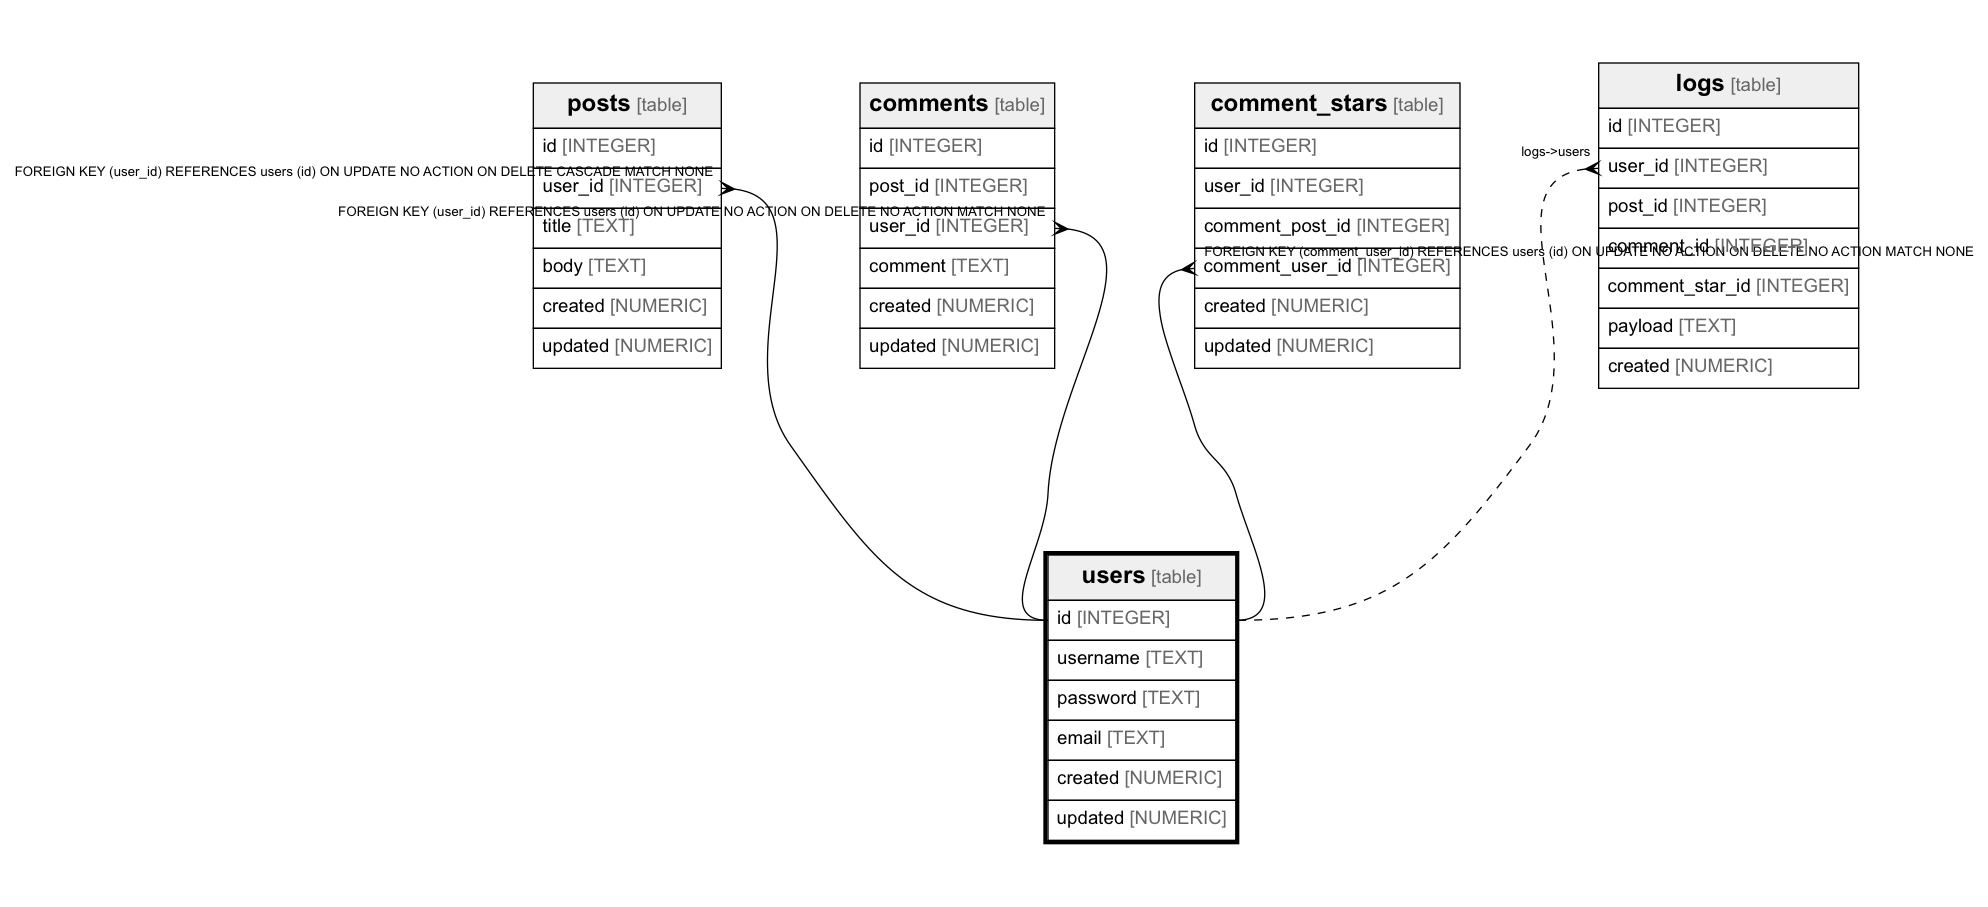
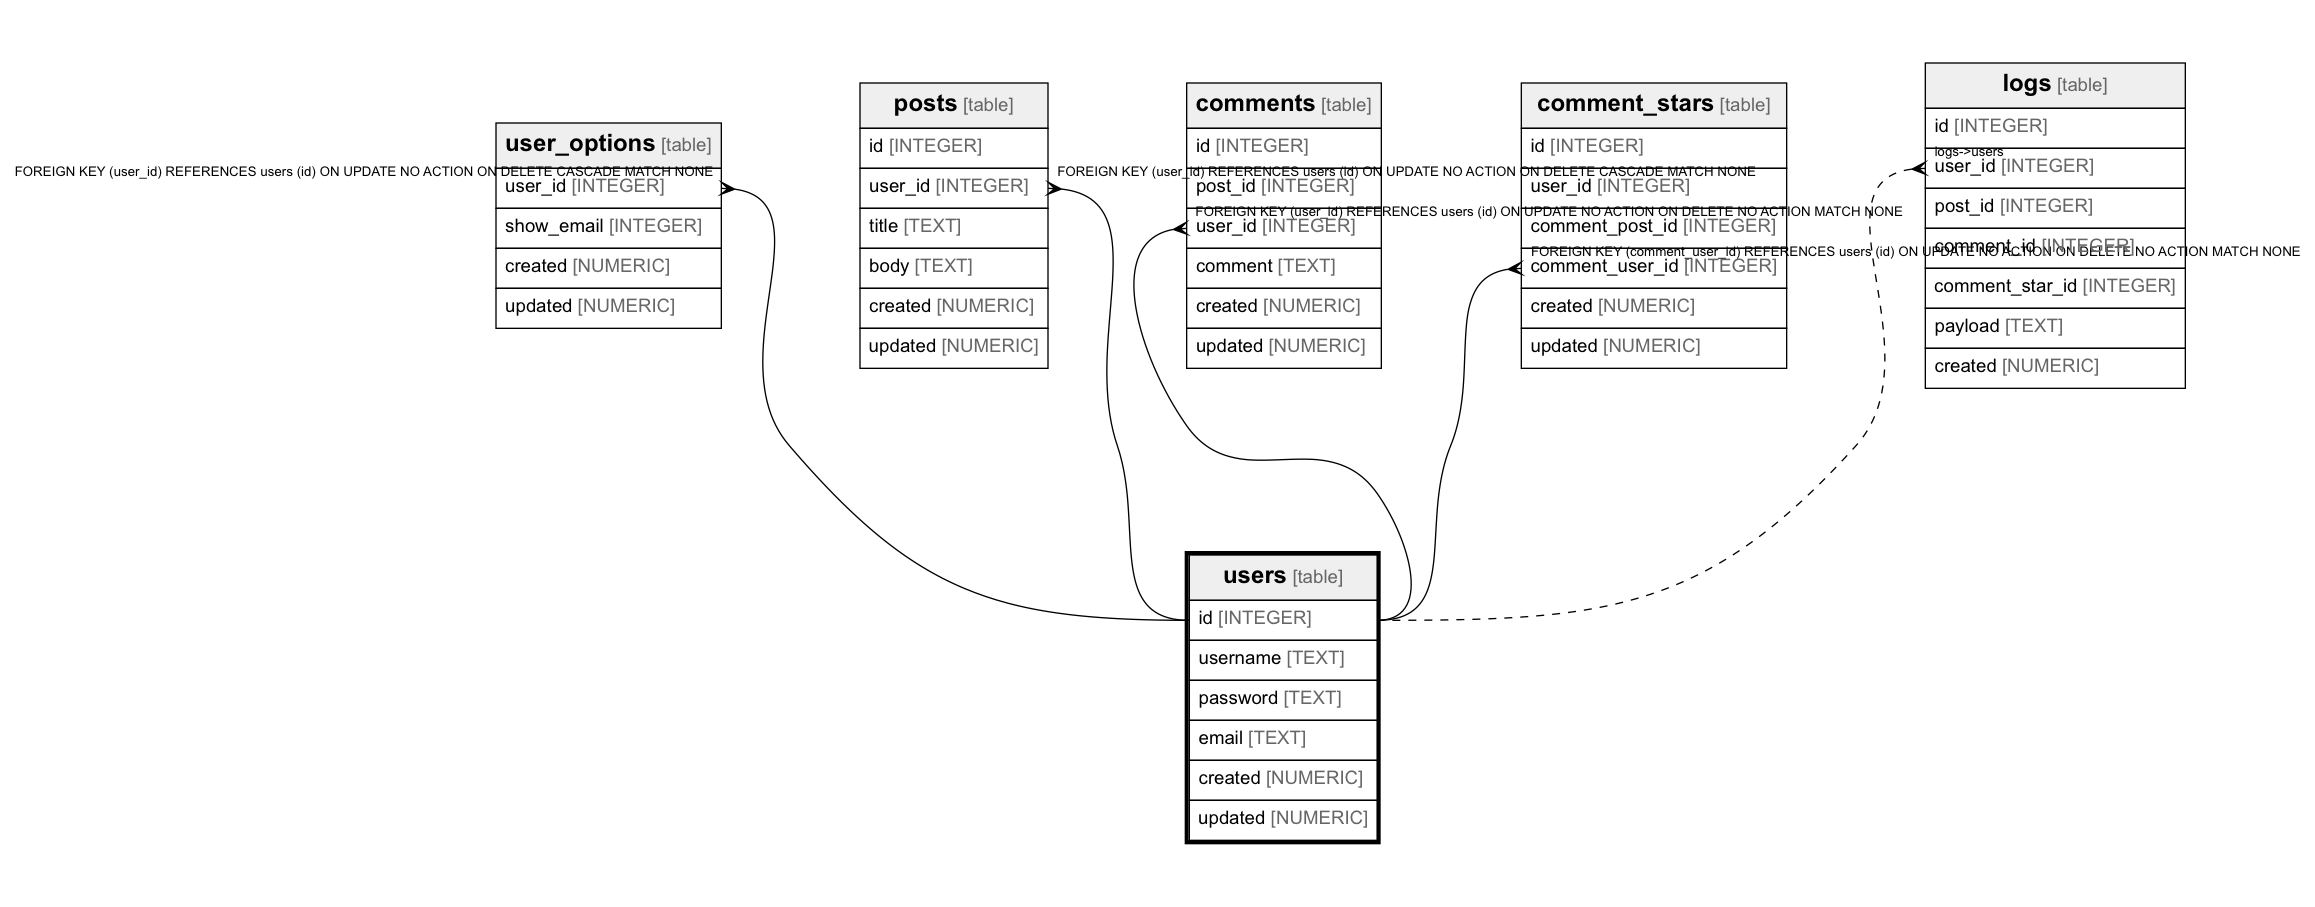
Add user_options that have PRIMARY KEY and FOREIGN KEY

Changed region(s): [[0.0, 0.0617, 0.998, 0.4322], [0.4678, 0.5865, 0.6237, 0.957]]

diff --git a/datasource/datasource_test.go b/datasource/datasource_test.go
@@ -12,8 +12,8 @@ var tests = []struct {
 	tableCount    int
 	relationCount int
 }{
-	{"my://root:mypass@localhost:33306/testdb", 7, 5},
-	{"pg://postgres:pgpass@localhost:55432/testdb?sslmode=disable", 8, 6},
+	{"my://root:mypass@localhost:33306/testdb", 8, 5},
+	{"pg://postgres:pgpass@localhost:55432/testdb?sslmode=disable", 9, 7},
 	{"json://../testdata/testdb.json", 7, 9},
 }
 

diff --git a/sample/adjust/users.md b/sample/adjust/users.md
@@ -6,14 +6,14 @@ Users table
 
 ## Columns
 
-| Name     | Type                        | Default                           | Nullable | Children                                                                                                                                  | Parents | Comment              |
-| -------- | --------------------------- | --------------------------------- | -------- | ----------------------------------------------------------------------------------------------------------------------------------------- | ------- | -------------------- |
-| id       | integer                     | nextval('users_id_seq'::regclass) | false    | [posts](posts.md) [comments](comments.md) [comment_stars](comment_stars.md) [administrator.blogs](administrator.blogs.md) [logs](logs.md) |         |                      |
-| username | varchar(50)                 |                                   | false    |                                                                                                                                           |         |                      |
-| password | varchar(50)                 |                                   | false    |                                                                                                                                           |         |                      |
-| email    | varchar(355)                |                                   | false    |                                                                                                                                           |         | ex. user@example.com |
-| created  | timestamp without time zone |                                   | false    |                                                                                                                                           |         |                      |
-| updated  | timestamp without time zone |                                   | true     |                                                                                                                                           |         |                      |
+| Name     | Type                        | Default                           | Nullable | Children                                                                                                                                                                  | Parents | Comment              |
+| -------- | --------------------------- | --------------------------------- | -------- | ------------------------------------------------------------------------------------------------------------------------------------------------------------------------- | ------- | -------------------- |
+| id       | integer                     | nextval('users_id_seq'::regclass) | false    | [user_options](user_options.md) [posts](posts.md) [comments](comments.md) [comment_stars](comment_stars.md) [administrator.blogs](administrator.blogs.md) [logs](logs.md) |         |                      |
+| username | varchar(50)                 |                                   | false    |                                                                                                                                                                           |         |                      |
+| password | varchar(50)                 |                                   | false    |                                                                                                                                                                           |         |                      |
+| email    | varchar(355)                |                                   | false    |                                                                                                                                                                           |         | ex. user@example.com |
+| created  | timestamp without time zone |                                   | false    |                                                                                                                                                                           |         |                      |
+| updated  | timestamp without time zone |                                   | true     |                                                                                                                                                                           |         |                      |
 
 ## Constraints
 

diff --git a/sample/adjust/user_options.md b/sample/adjust/user_options.md
@@ -1,0 +1,35 @@
+# user_options
+
+## Description
+
+User options table
+
+## Columns
+
+| Name       | Type                        | Default | Nullable | Children | Parents           | Comment |
+| ---------- | --------------------------- | ------- | -------- | -------- | ----------------- | ------- |
+| user_id    | integer                     |         | false    |          | [users](users.md) |         |
+| show_email | boolean                     | false   | false    |          |                   |         |
+| created    | timestamp without time zone |         | false    |          |                   |         |
+| updated    | timestamp without time zone |         | true     |          |                   |         |
+
+## Constraints
+
+| Name                    | Type        | Definition                                                   |
+| ----------------------- | ----------- | ------------------------------------------------------------ |
+| user_options_user_id_fk | FOREIGN KEY | FOREIGN KEY (user_id) REFERENCES users(id) ON DELETE CASCADE |
+| user_options_pkey       | PRIMARY KEY | PRIMARY KEY (user_id)                                        |
+
+## Indexes
+
+| Name              | Definition                                                                         |
+| ----------------- | ---------------------------------------------------------------------------------- |
+| user_options_pkey | CREATE UNIQUE INDEX user_options_pkey ON public.user_options USING btree (user_id) |
+
+## Relations
+
+![er](user_options.png)
+
+---
+
+> Generated by [tbls](https://github.com/k1LoW/tbls)

diff --git a/sample/mysql/user_options.md b/sample/mysql/user_options.md
@@ -1,0 +1,51 @@
+# user_options
+
+## Description
+
+User options table
+
+<details>
+<summary><strong>Table Definition</strong></summary>
+
+```sql
+CREATE TABLE `user_options` (
+  `user_id` int(11) NOT NULL,
+  `show_email` tinyint(1) NOT NULL DEFAULT '0',
+  `created` timestamp NOT NULL DEFAULT CURRENT_TIMESTAMP ON UPDATE CURRENT_TIMESTAMP,
+  `updated` timestamp NOT NULL DEFAULT '0000-00-00 00:00:00',
+  PRIMARY KEY (`user_id`),
+  CONSTRAINT `user_options_user_id_fk` FOREIGN KEY (`user_id`) REFERENCES `users` (`id`)
+) ENGINE=InnoDB DEFAULT CHARSET=latin1 COMMENT='User options table'
+```
+
+</details>
+
+## Columns
+
+| Name | Type | Default | Nullable | Children | Parents | Comment |
+| ---- | ---- | ------- | -------- | -------- | ------- | ------- |
+| user_id | int(11) |  | false |  |  |  |
+| show_email | tinyint(1) | 0 | false |  |  |  |
+| created | timestamp | CURRENT_TIMESTAMP | false |  |  |  |
+| updated | timestamp | 0000-00-00 00:00:00 | false |  |  |  |
+
+## Constraints
+
+| Name | Type | Definition |
+| ---- | ---- | ---------- |
+| PRIMARY | PRIMARY KEY | PRIMARY KEY (user_id) |
+| user_options_user_id_fk | PRIMARY KEY | PRIMARY KEY (user_id) |
+
+## Indexes
+
+| Name | Definition |
+| ---- | ---------- |
+| PRIMARY | PRIMARY KEY (user_id) USING BTREE |
+
+## Relations
+
+![er](user_options.png)
+
+---
+
+> Generated by [tbls](https://github.com/k1LoW/tbls)

diff --git a/sample/svg/user_options.md b/sample/svg/user_options.md
@@ -1,0 +1,51 @@
+# user_options
+
+## Description
+
+User options table
+
+<details>
+<summary><strong>Table Definition</strong></summary>
+
+```sql
+CREATE TABLE `user_options` (
+  `user_id` int(11) NOT NULL,
+  `show_email` tinyint(1) NOT NULL DEFAULT '0',
+  `created` timestamp NOT NULL DEFAULT CURRENT_TIMESTAMP ON UPDATE CURRENT_TIMESTAMP,
+  `updated` timestamp NOT NULL DEFAULT '0000-00-00 00:00:00',
+  PRIMARY KEY (`user_id`),
+  CONSTRAINT `user_options_user_id_fk` FOREIGN KEY (`user_id`) REFERENCES `users` (`id`)
+) ENGINE=InnoDB DEFAULT CHARSET=latin1 COMMENT='User options table'
+```
+
+</details>
+
+## Columns
+
+| Name | Type | Default | Nullable | Children | Parents | Comment |
+| ---- | ---- | ------- | -------- | -------- | ------- | ------- |
+| user_id | int(11) |  | false |  |  |  |
+| show_email | tinyint(1) | 0 | false |  |  |  |
+| created | timestamp | CURRENT_TIMESTAMP | false |  |  |  |
+| updated | timestamp | 0000-00-00 00:00:00 | false |  |  |  |
+
+## Constraints
+
+| Name | Type | Definition |
+| ---- | ---- | ---------- |
+| PRIMARY | PRIMARY KEY | PRIMARY KEY (user_id) |
+| user_options_user_id_fk | PRIMARY KEY | PRIMARY KEY (user_id) |
+
+## Indexes
+
+| Name | Definition |
+| ---- | ---------- |
+| PRIMARY | PRIMARY KEY (user_id) USING BTREE |
+
+## Relations
+
+![er](user_options.svg)
+
+---
+
+> Generated by [tbls](https://github.com/k1LoW/tbls)

diff --git a/sample/mysql8/user_options.md b/sample/mysql8/user_options.md
@@ -1,0 +1,51 @@
+# user_options
+
+## Description
+
+User options table
+
+<details>
+<summary><strong>Table Definition</strong></summary>
+
+```sql
+CREATE TABLE `user_options` (
+  `user_id` int(11) NOT NULL,
+  `show_email` tinyint(1) NOT NULL DEFAULT '0',
+  `created` timestamp NOT NULL,
+  `updated` timestamp NULL DEFAULT NULL,
+  PRIMARY KEY (`user_id`),
+  CONSTRAINT `user_options_user_id_fk` FOREIGN KEY (`user_id`) REFERENCES `users` (`id`) ON DELETE CASCADE
+) ENGINE=InnoDB DEFAULT CHARSET=utf8mb4 COLLATE=utf8mb4_0900_ai_ci COMMENT='User options table'
+```
+
+</details>
+
+## Columns
+
+| Name | Type | Default | Nullable | Children | Parents | Comment |
+| ---- | ---- | ------- | -------- | -------- | ------- | ------- |
+| user_id | int(11) |  | false |  |  |  |
+| show_email | tinyint(1) | 0 | false |  |  |  |
+| created | timestamp |  | false |  |  |  |
+| updated | timestamp |  | true |  |  |  |
+
+## Constraints
+
+| Name | Type | Definition |
+| ---- | ---- | ---------- |
+| PRIMARY | PRIMARY KEY | PRIMARY KEY (user_id) |
+| user_options_user_id_fk | PRIMARY KEY | PRIMARY KEY (user_id) |
+
+## Indexes
+
+| Name | Definition |
+| ---- | ---------- |
+| PRIMARY | PRIMARY KEY (user_id) USING BTREE |
+
+## Relations
+
+![er](user_options.png)
+
+---
+
+> Generated by [tbls](https://github.com/k1LoW/tbls)

diff --git a/sample/sqlite/user_options.md b/sample/sqlite/user_options.md
@@ -1,0 +1,42 @@
+# user_options
+
+## Description
+
+<details>
+<summary><strong>Table Definition</strong></summary>
+
+```sql
+CREATE TABLE user_options (
+  user_id INTEGER PRIMARY KEY,
+  show_email INTEGER NOT NULL DEFAULT 0,
+  created NUMERIC NOT NULL,
+  updated NUMERIC,
+  CONSTRAINT user_options_user_id_fk FOREIGN KEY(user_id) REFERENCES users(id) MATCH NONE ON UPDATE NO ACTION ON DELETE CASCADE
+)
+```
+
+</details>
+
+## Columns
+
+| Name | Type | Default | Nullable | Children | Parents | Comment |
+| ---- | ---- | ------- | -------- | -------- | ------- | ------- |
+| user_id | INTEGER |  | true |  | [users](users.md) |  |
+| show_email | INTEGER | 0 | false |  |  |  |
+| created | NUMERIC |  | false |  |  |  |
+| updated | NUMERIC |  | true |  |  |  |
+
+## Constraints
+
+| Name | Type | Definition |
+| ---- | ---- | ---------- |
+| user_id | PRIMARY KEY | PRIMARY KEY (user_id) |
+| - (Foreign key ID: 0) | FOREIGN KEY | FOREIGN KEY (user_id) REFERENCES users (id) ON UPDATE NO ACTION ON DELETE CASCADE MATCH NONE |
+
+## Relations
+
+![er](user_options.png)
+
+---
+
+> Generated by [tbls](https://github.com/k1LoW/tbls)

diff --git a/sample/postgres/user_options.md b/sample/postgres/user_options.md
@@ -1,0 +1,35 @@
+# user_options
+
+## Description
+
+User options table
+
+## Columns
+
+| Name | Type | Default | Nullable | Children | Parents | Comment |
+| ---- | ---- | ------- | -------- | -------- | ------- | ------- |
+| user_id | integer |  | false |  | [users](users.md) |  |
+| show_email | boolean | false | false |  |  |  |
+| created | timestamp without time zone |  | false |  |  |  |
+| updated | timestamp without time zone |  | true |  |  |  |
+
+## Constraints
+
+| Name | Type | Definition |
+| ---- | ---- | ---------- |
+| user_options_user_id_fk | FOREIGN KEY | FOREIGN KEY (user_id) REFERENCES users(id) ON DELETE CASCADE |
+| user_options_pkey | PRIMARY KEY | PRIMARY KEY (user_id) |
+
+## Indexes
+
+| Name | Definition |
+| ---- | ---------- |
+| user_options_pkey | CREATE UNIQUE INDEX user_options_pkey ON public.user_options USING btree (user_id) |
+
+## Relations
+
+![er](user_options.png)
+
+---
+
+> Generated by [tbls](https://github.com/k1LoW/tbls)

diff --git a/sample/adjust/README.md b/sample/adjust/README.md
@@ -5,6 +5,7 @@
 | Name                                          | Columns | Comment                                    | Type       |
 | --------------------------------------------- | ------- | ------------------------------------------ | ---------- |
 | [users](users.md)                             | 6       | Users table                                | BASE TABLE |
+| [user_options](user_options.md)               | 4       | User options table                         | BASE TABLE |
 | [posts](posts.md)                             | 8       | Posts table                                | BASE TABLE |
 | [comments](comments.md)                       | 6       | Comments<br>Multi-line<br>table<br>comment | BASE TABLE |
 | [comment_stars](comment_stars.md)             | 6       |                                            | BASE TABLE |

diff --git a/sample/postgres/users.md b/sample/postgres/users.md
@@ -8,7 +8,7 @@ Users table
 
 | Name | Type | Default | Nullable | Children | Parents | Comment |
 | ---- | ---- | ------- | -------- | -------- | ------- | ------- |
-| id | integer | nextval('users_id_seq'::regclass) | false | [posts](posts.md) [comments](comments.md) [comment_stars](comment_stars.md) [administrator.blogs](administrator.blogs.md) [logs](logs.md) |  |  |
+| id | integer | nextval('users_id_seq'::regclass) | false | [user_options](user_options.md) [posts](posts.md) [comments](comments.md) [comment_stars](comment_stars.md) [administrator.blogs](administrator.blogs.md) [logs](logs.md) |  |  |
 | username | varchar(50) |  | false |  |  |  |
 | password | varchar(50) |  | false |  |  |  |
 | email | varchar(355) |  | false |  |  | ex. user@example.com |

diff --git a/sample/sqlite/users.md b/sample/sqlite/users.md
@@ -22,7 +22,7 @@ CREATE TABLE users (
 
 | Name | Type | Default | Nullable | Children | Parents | Comment |
 | ---- | ---- | ------- | -------- | -------- | ------- | ------- |
-| id | INTEGER |  | true | [posts](posts.md) [comments](comments.md) [comment_stars](comment_stars.md) [logs](logs.md) |  |  |
+| id | INTEGER |  | true | [user_options](user_options.md) [posts](posts.md) [comments](comments.md) [comment_stars](comment_stars.md) [logs](logs.md) |  |  |
 | username | TEXT |  | false |  |  |  |
 | password | TEXT |  | false |  |  |  |
 | email | TEXT |  | false |  |  |  |

diff --git a/sample/postgres/README.md b/sample/postgres/README.md
@@ -5,6 +5,7 @@
 | Name | Columns | Comment | Type |
 | ---- | ------- | ------- | ---- |
 | [users](users.md) | 6 | Users table | BASE TABLE |
+| [user_options](user_options.md) | 4 | User options table | BASE TABLE |
 | [posts](posts.md) | 8 | Posts table | BASE TABLE |
 | [comments](comments.md) | 6 | Comments<br>Multi-line<br>table<br>comment | BASE TABLE |
 | [comment_stars](comment_stars.md) | 6 |  | BASE TABLE |
